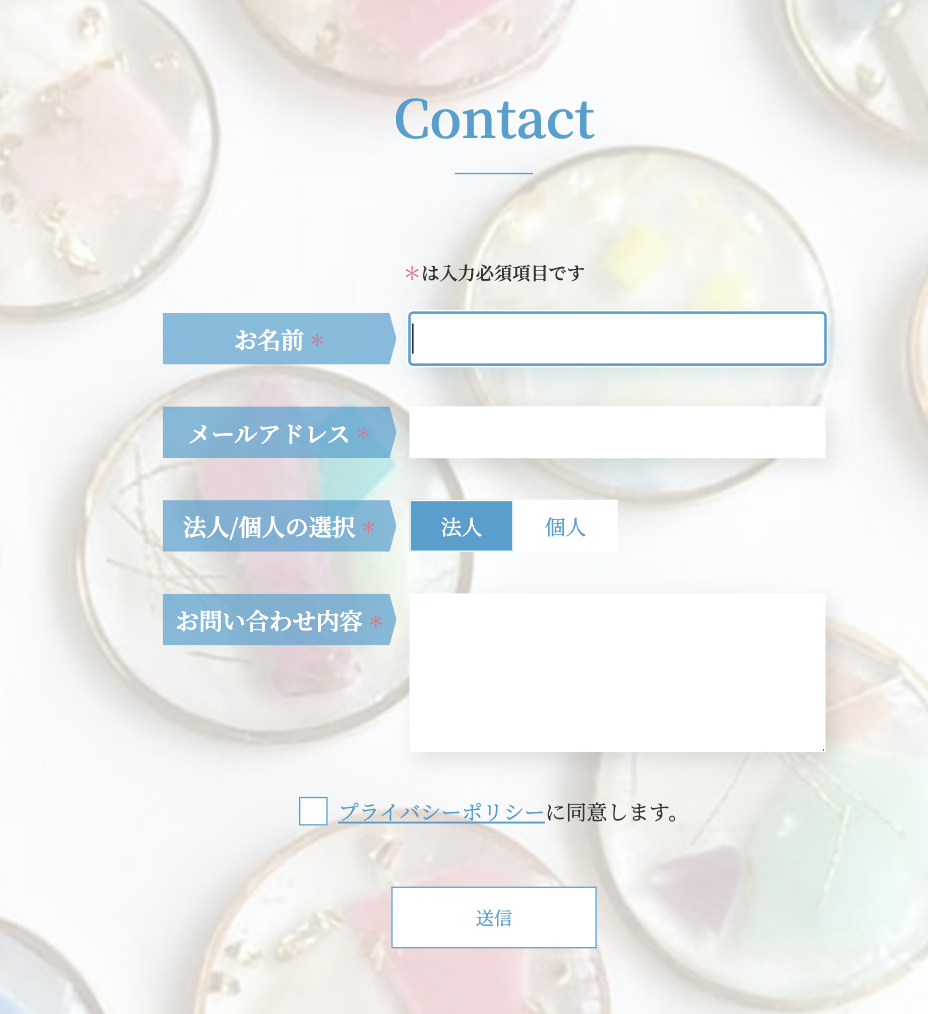
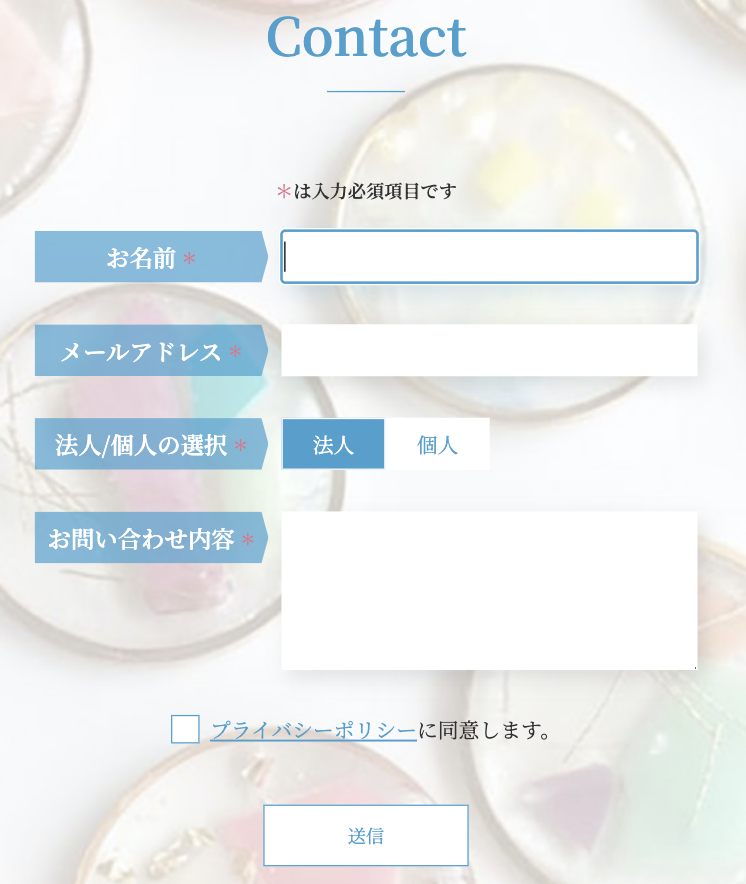
worksセクション：sobolonのページの途中

diff --git a/works-sobolon.html b/works-sobolon.html
@@ -85,7 +85,7 @@
             URL
           </div>
           <div class="info-item__text">
-
+            <a href="https://sobolon.haruna-code.com/" target="_blank">https://sobolon.haruna-code.com/</a>
           </div>
         </li>
         <li class="works-info__item">
@@ -109,7 +109,7 @@
         </p>
       </div>
       <div class="works-page__button">
-        <a href="" class="button">view site</a>
+        <a href="https://sobolon.haruna-code.com/" target="_blank" class="button">view site</a>
       </div>
       <div class="works-page__description__wrapper">
         <ul class="works-page__description">
@@ -137,7 +137,7 @@
           ホバー時の動き
         </div>
         <div class="works__highlight__content works3__highlight__content">
-          <div class="works3__hover__image">
+          <div class="works3__hover__image_1 works__highlight__image">
             <div class="works3__hover__image1">
               <div class="works3__hover__image1-1">
                 <img src="./img/works/sobolon/sobolon-products_1.png" alt="">
@@ -147,22 +147,13 @@
                 <img src="./img/works/sobolon/sobolon-products_2.png" alt="">
               </div>
             </div>
-            <!-- <div class="works3__hover__image2">
-              <div class="works3__hover__image2-1">
-                <img src="./img/works/sobolon/sobolon-news_1.png" alt="">
-              </div>
-              <div class="arrow works3__arrow works3__arrow-2"></div>
-              <div class="works3__hover__image2-2">
-                <img src="./img/works/sobolon/sobolon-news_1.png" alt="">
-              </div>
-            </div> -->
           </div>
-          <div class="works3__hover__text">
-            ホバーした時に画像が大きくなるアニメーションを実装しました。
-          </div>
+          <p class="works3__hover__text">
+            ホバーした時に画像が大きくなるアニメーションを実装しました。<br>実装箇所：Productセクション、Newsセクション
+          </p>
         </div>
         <div class="works__highlight__content works3__highlight__content works3__highlight__content-2">
-          <div class="works3__hover__image">
+          <div class="works__highlight__image">
             <div class="works3__hover__image3">
               <div class="works3__hover__image3-1">
                 <img src="./img/works/sobolon/sobolon-button_1.png" alt="">
@@ -185,10 +176,9 @@
               </div>
             </div>
           </div>
-          <div class="works3__hover__text">
-            ホバーした時に色が変わったり、薄くなるようにしました。
-          </div>
-          
+          <p class="works3__hover__text">
+            ホバーした時に色が変わったり、薄くなるようにしました。<br>実装箇所：ヘッダーナビ、ボタン、ロゴやfooterのリンク
+          </p>
         </div>
 
       </div>
@@ -197,7 +187,18 @@
         <div class="works__highlight__title">
           フォーカス
         </div>
-        <div class="works__highlight__content">
+        <div class="works__highlight__content works3__highlight__content">
+          <div class="works__highlight__image works3__highlight__image__hover">
+            <div class="works3__focus__image">
+              <img src="./img/works/sobolon/sobolon-contact.png" alt="">
+            </div>
+          </div>
+          <p class="works3__focus__text">
+            Contactの入力欄はフォーカス時にメインカラーでアウトラインをつけるように実装しました。
+            <br>
+
+          </p>
+        </div>
           
         </div>
 

diff --git a/css/style.css b/css/style.css
@@ -493,7 +493,7 @@
 
 .works {
   margin-top: 70px;
-  margin-bottom: 150px;
+  margin-bottom: 160px;
 }
 
 .works__heading {
@@ -508,11 +508,11 @@
 
 .works__bg {
   width: 69%;
-  padding-top: 60%;
+  padding-top: 39%;
   position: absolute;
   right: 0;
   background: linear-gradient(96deg, rgba(230, 238, 207, 0.27) 0%, rgba(191, 206, 236, 0.27) 10.27%, rgba(219, 148, 214, 0.27) 83.05%, rgba(254, 245, 178, 0.27) 98.61%);
-  margin-top: 140px;
+  margin-top: 200px;
 }
 
 .works__slider {
@@ -531,7 +531,7 @@
 }
 @media screen and (min-width:768px) {
   .works__swiper {
-    padding: 26px 40px 52px 40px;
+    padding: 26px 40px 72px 40px;
     width: 100%;
   }
 }
@@ -650,12 +650,12 @@
   -webkit-box-pack: center;
       -ms-flex-pack: center;
           justify-content: center;
-  gap: 12px;
+  gap: 17px;
   bottom: 0;
 }
 .swiper-pagination .swiper-pagination-bullet {
-  width: 10px;
-  height: 10px;
+  width: 12px;
+  height: 12px;
   margin-left: 0 !important;
   margin-right: 0 !important;
   background: #bcbcbc;
@@ -769,7 +769,7 @@
 }
 @media screen and (min-width:768px) {
   .works__button {
-    margin-top: 200px;
+    margin-top: 100px;
   }
 }
 
@@ -1243,6 +1243,11 @@
   font-size: 15px;
 }
 
+.works__highlight__image {
+  padding: 30px;
+  background: linear-gradient(96deg, rgba(230, 238, 207, 0.28) 0%, rgba(191, 206, 236, 0.31) 0.01%, rgba(216, 153, 216, 0.27) 96.62%, rgba(219, 148, 214, 0.26) 96.63%);
+}
+
 .site__image {
   margin-inline: auto;
 }
@@ -1263,12 +1268,11 @@
   -webkit-box-align: center;
       -ms-flex-align: center;
           align-items: center;
-  gap: 40px;
+  gap: 50px;
 }
 
-.works3__hover__image {
-  padding: 30px;
-  background: linear-gradient(96deg, rgba(230, 238, 207, 0.28) 0%, rgba(191, 206, 236, 0.31) 0.01%, rgba(216, 153, 216, 0.27) 96.62%, rgba(219, 148, 214, 0.26) 96.63%);
+.works3__hover__image_1 {
+  padding: 30px 40px;
 }
 
 .works3__hover__image1 {
@@ -1288,6 +1292,10 @@
 
 .works3__hover__image1-2 {
   width: 200px;
+}
+
+.works3__hover__text {
+  line-height: 2.4;
 }
 
 .works3__hover__image2 {
@@ -1360,6 +1368,21 @@
 
 .works3__hover__image5-2 {
   width: 210px;
+}
+
+@media screen and (min-width:768px) {
+  .works3__highlight__image__hover {
+    width: 560px;
+  }
+}
+
+@media screen and (min-width:768px) {
+  .works3__focus__image {
+    width: 500px;
+  }
+}
+.works3__focus__image img {
+  width: 100%;
 }
 
 html {

diff --git a/sass/_works.scss b/sass/_works.scss
@@ -3,7 +3,7 @@
 
 .works {
   margin-top: 70px;
-  margin-bottom: 150px;
+  margin-bottom: 160px;
 }
 
 .works__inner {
@@ -22,11 +22,11 @@
 
 .works__bg {
   width: 69%;
-  padding-top: 60%;
+  padding-top: 39%;
   position: absolute;
   right: 0;
   background: linear-gradient(96deg, rgba(230, 238, 207, 0.27) 0%, rgba(191, 206, 236, 0.27) 10.27%, rgba(219, 148, 214, 0.27) 83.05%, rgba(254, 245, 178, 0.27) 98.61%);
-  margin-top: 140px;
+  margin-top: 200px;
 }
 
 .works__slider {
@@ -44,7 +44,7 @@
   padding-bottom: 40px;
 
   @include variable.mq("md") {
-    padding: 26px 40px 52px 40px;
+    padding: 26px 40px 72px 40px;
     width: 100%;
   }
   
@@ -88,12 +88,9 @@
 }
 
 .works__slide {
-  // width: calc(100% - 100px) !important;
   margin-inline: 50px;
 
   @include variable.mq("lg") {
-    // width: calc(100% - 300px) !important;
-    // width: calc(100% - 300px) !important; /* スライド幅を調整 */
     margin-right: 100px;
   }
 }
@@ -168,12 +165,12 @@
 .swiper-pagination {
   display: flex;
   justify-content: center;
-  gap: 12px;
+  gap: 17px;
   bottom: 0;
 
   .swiper-pagination-bullet {
-    width: 10px;
-    height: 10px;
+    width: 12px;
+    height: 12px;
     margin-left: 0 !important;
     margin-right: 0 !important;
     background: #bcbcbc;
@@ -291,6 +288,6 @@
   margin-top: 60px;
 
   @include variable.mq("md") {
-    margin-top: 200px;
+    margin-top: 100px;
   }
 }

diff --git a/sass/_works-sobolon.scss b/sass/_works-sobolon.scss
@@ -4,12 +4,11 @@
 .works3__highlight__content {
   display: flex;
   align-items: center;
-  gap: 40px;
+  gap: 50px;
 }
 
-.works3__hover__image {
-  padding: 30px;
-  background: linear-gradient(96deg, rgba(230, 238, 207, 0.28) 0%, rgba(191, 206, 236, 0.31) 0.01%, rgba(216, 153, 216, 0.27) 96.62%, rgba(219, 148, 214, 0.26) 96.63%);
+.works3__hover__image_1 {
+  padding: 30px 40px;
 }
 
 .works3__hover__image1 {
@@ -28,6 +27,10 @@
 
 .works3__hover__image1-2 {
   width: 200px;
+}
+
+.works3__hover__text {
+  line-height: 2.4;
 }
 
 .works3__hover__image2 {
@@ -96,6 +99,27 @@
 .works3__hover__image5-2 {
   width: 210px;
 }
+
+.works3__highlight__image__hover {
+  @include variable.mq("md") {
+    width: 560px;
+  }
+}
+
+.works3__focus__image {
+  @include variable.mq("md") {
+    width: 500px;
+  }
+
+  img {
+    width: 100%;
+  }
+}
+
+.works3__focus__text {
+
+}
+
 
 
 

diff --git a/sass/_works-page-item.scss b/sass/_works-page-item.scss
@@ -225,6 +225,11 @@
   font-size: 15px;
 }
 
+.works__highlight__image {
+  padding: 30px;
+  background: linear-gradient(96deg, rgba(230, 238, 207, 0.28) 0%, rgba(191, 206, 236, 0.31) 0.01%, rgba(216, 153, 216, 0.27) 96.62%, rgba(219, 148, 214, 0.26) 96.63%);
+}
+
 
 
 .site__image {
